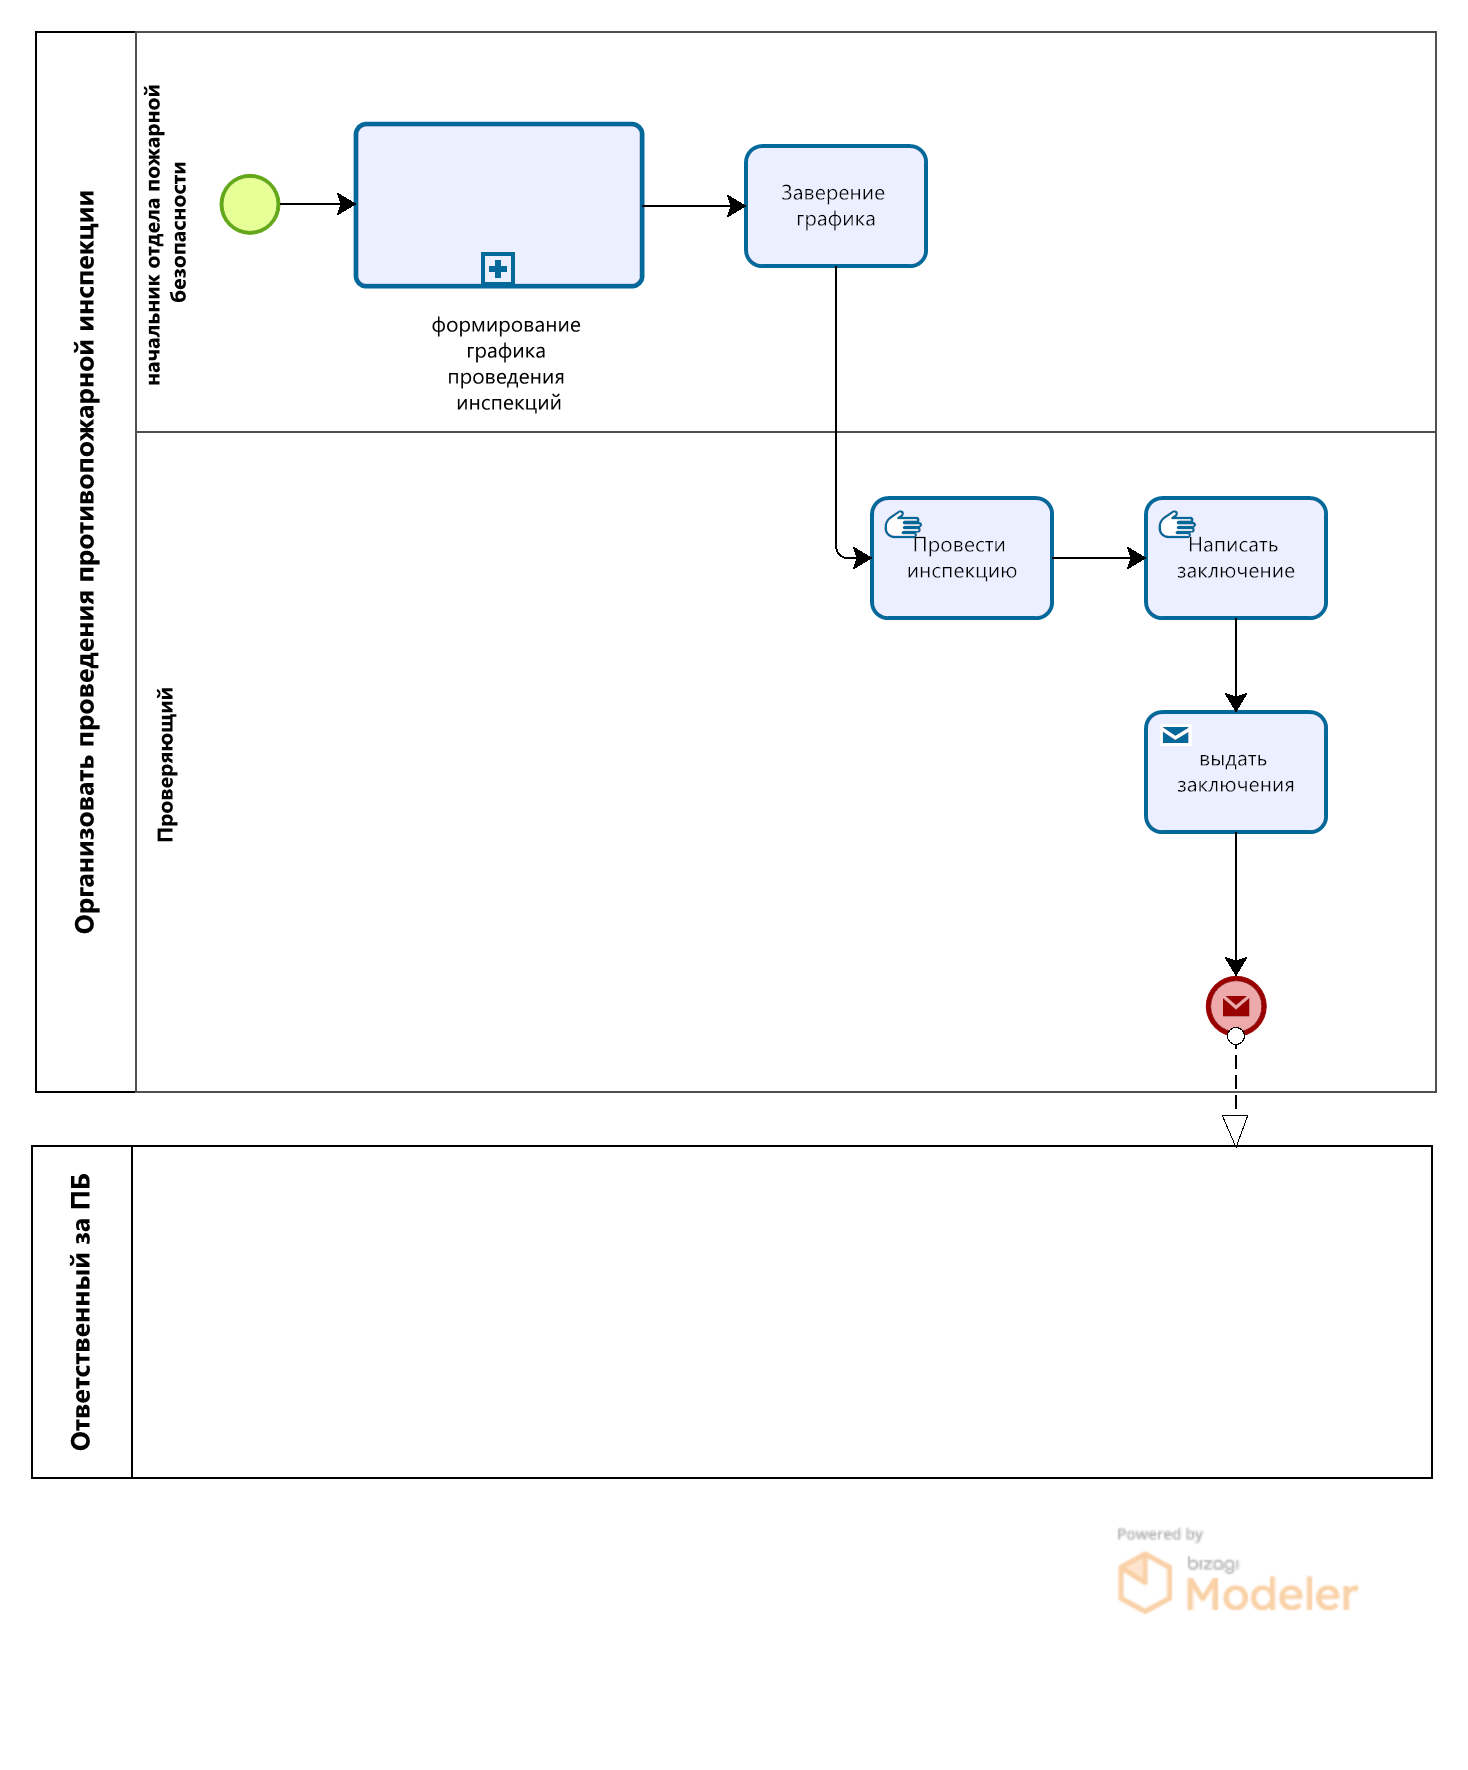
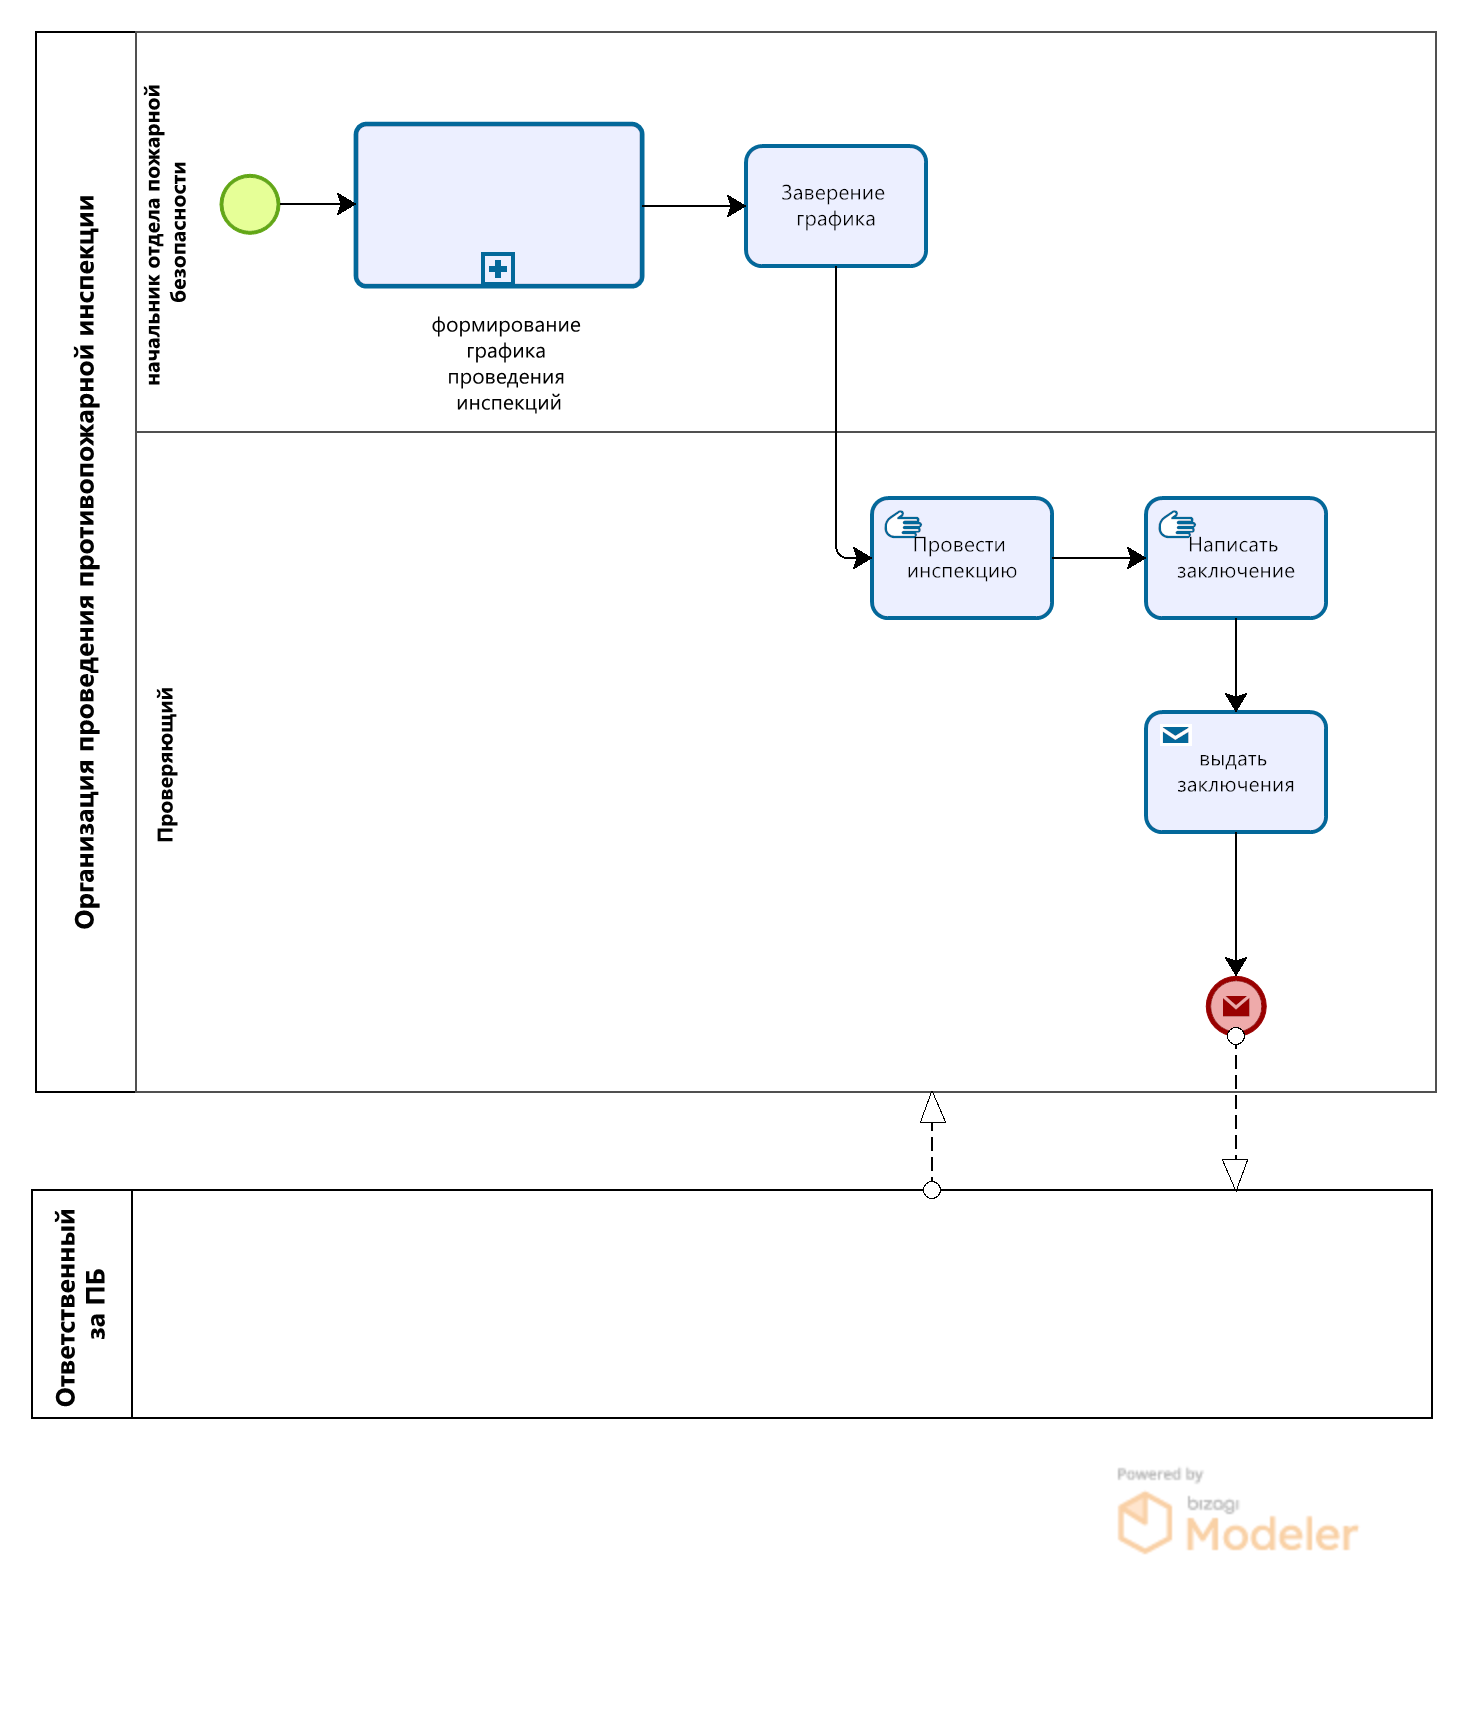
15 done

diff --git a/src/pract15/pract15.tex b/src/pract15/pract15.tex
@@ -1,0 +1,42 @@
+
+\section*{\LARGE Цель практической работы}
+\addcontentsline{toc}{section}{Цель практической работы}
+
+\textbf{Цель работы:} Отработка поиска ошибок в построенной модели бизнеспроцесса с последующим перепроектированием
+модели процесса
+
+
+
+\textbf{Постановка задачи:}\par
+На основе выданного преподавателем варианта задания
+\begin{itemize}
+    \item Проанализировать представленную модель бизнес-процесса и смоделировать процесс заново.
+\end{itemize}
+
+
+\newpage
+
+\section*{\LARGE Результат работы}
+
+\addcontentsline{toc}{section}{Выполнение практической работы}
+\section{Исправление ошибок}
+Входе работы были переназванны, процессы и изменены соединения между ними.
+\img{img/img}{Исправление ошибок}
+\clearpage
+
+\newpage
+
+\section*{ВЫВОД}
+\addcontentsline{toc}{section}{ВЫВОД}
+Построены и сохранены в
+файле текстового формата текстовое описание бизнес-процесса, модели
+бизнес-процесса, презентация бизнес-процесса, представленные
+преподавателю в конце практического занятия в виде отчета.
+\newpage
+
+\section*{СПИСОК ЛИТЕРАТУРЫ}
+\addcontentsline{toc}{section}{СПИСОК ЛИТЕРАТУРЫ}
+\begin{thebibliography}{}
+    \bibitem{}  Материалы для практических/семинарских занятий: [url]
+    \url{https://online-edu.mirea.ru/mod/resource/view.php?id=496092}
+\end{thebibliography}

diff --git a/src/pract15/Main15.tex b/src/pract15/Main15.tex
@@ -1,0 +1,17 @@
+\documentclass[14pt,a4paper,oneside]{extarticle}
+
+\usepackage{../Style}
+\usepackage{hyperref}
+
+\date{\today}
+
+\begin{document}
+\renewcommand{\figurename}{Рисунок}
+
+\mytitle{15}
+
+%\tableofcontents
+
+\include{pract15}
+
+\end{document}
